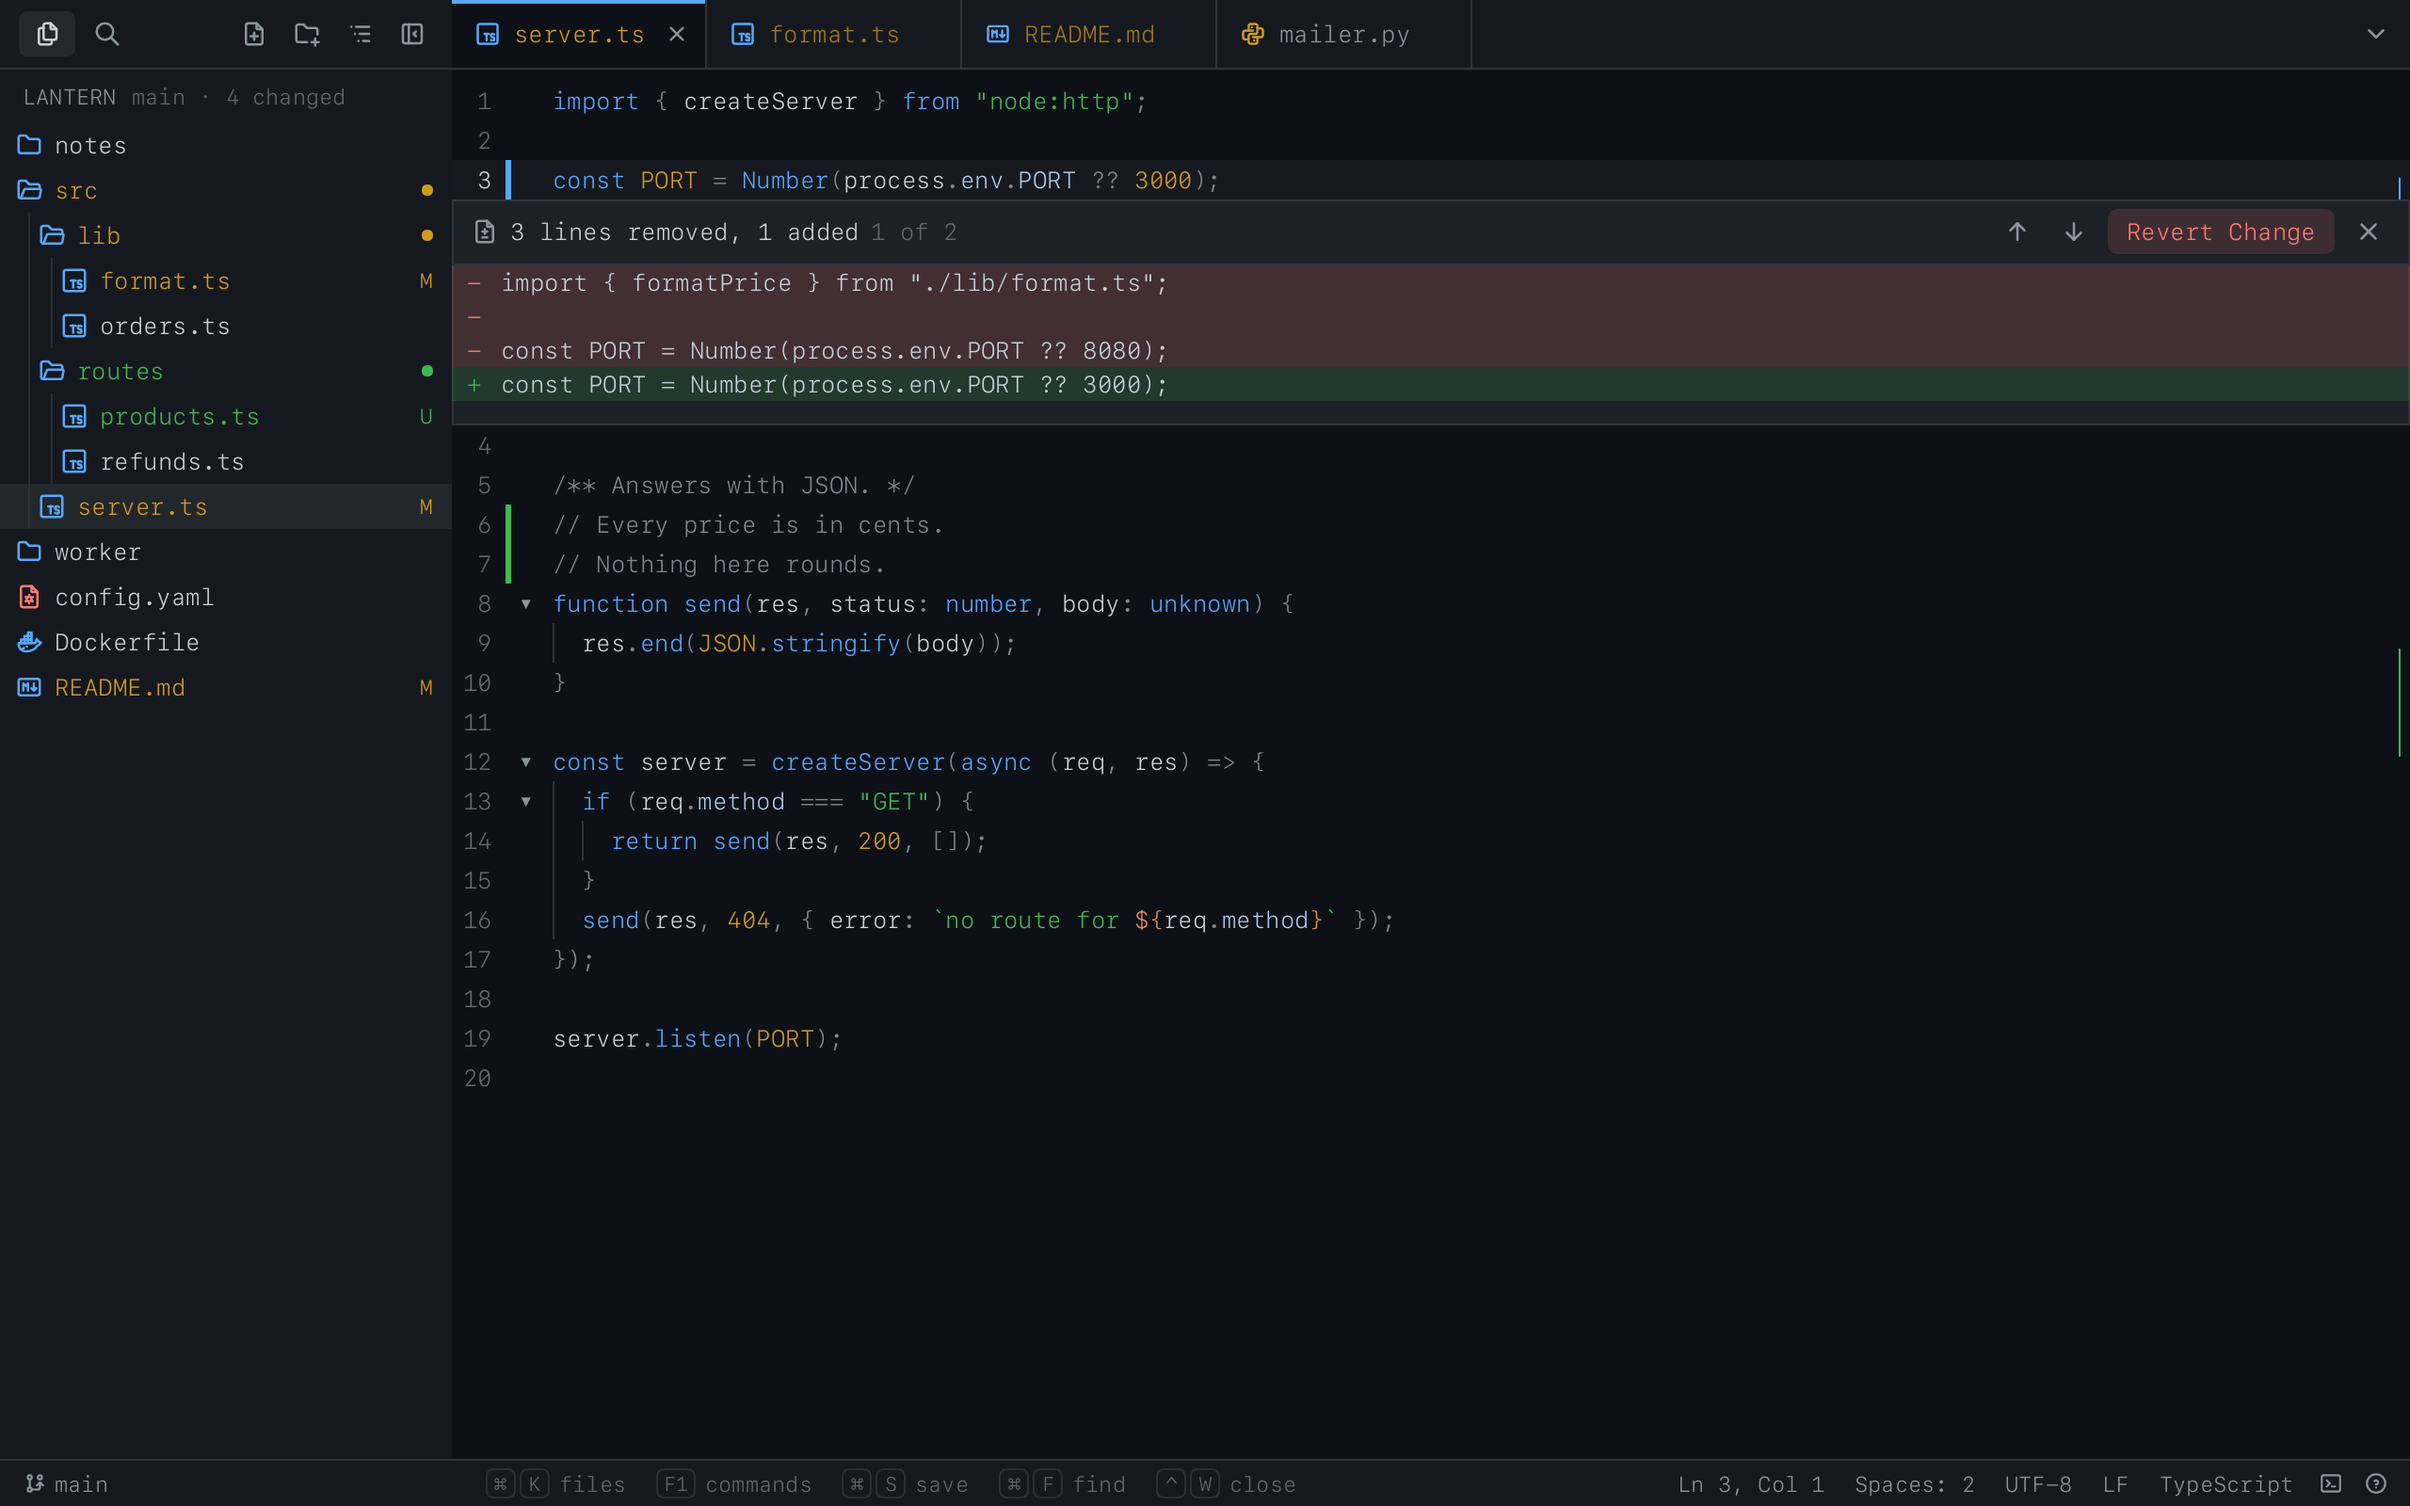
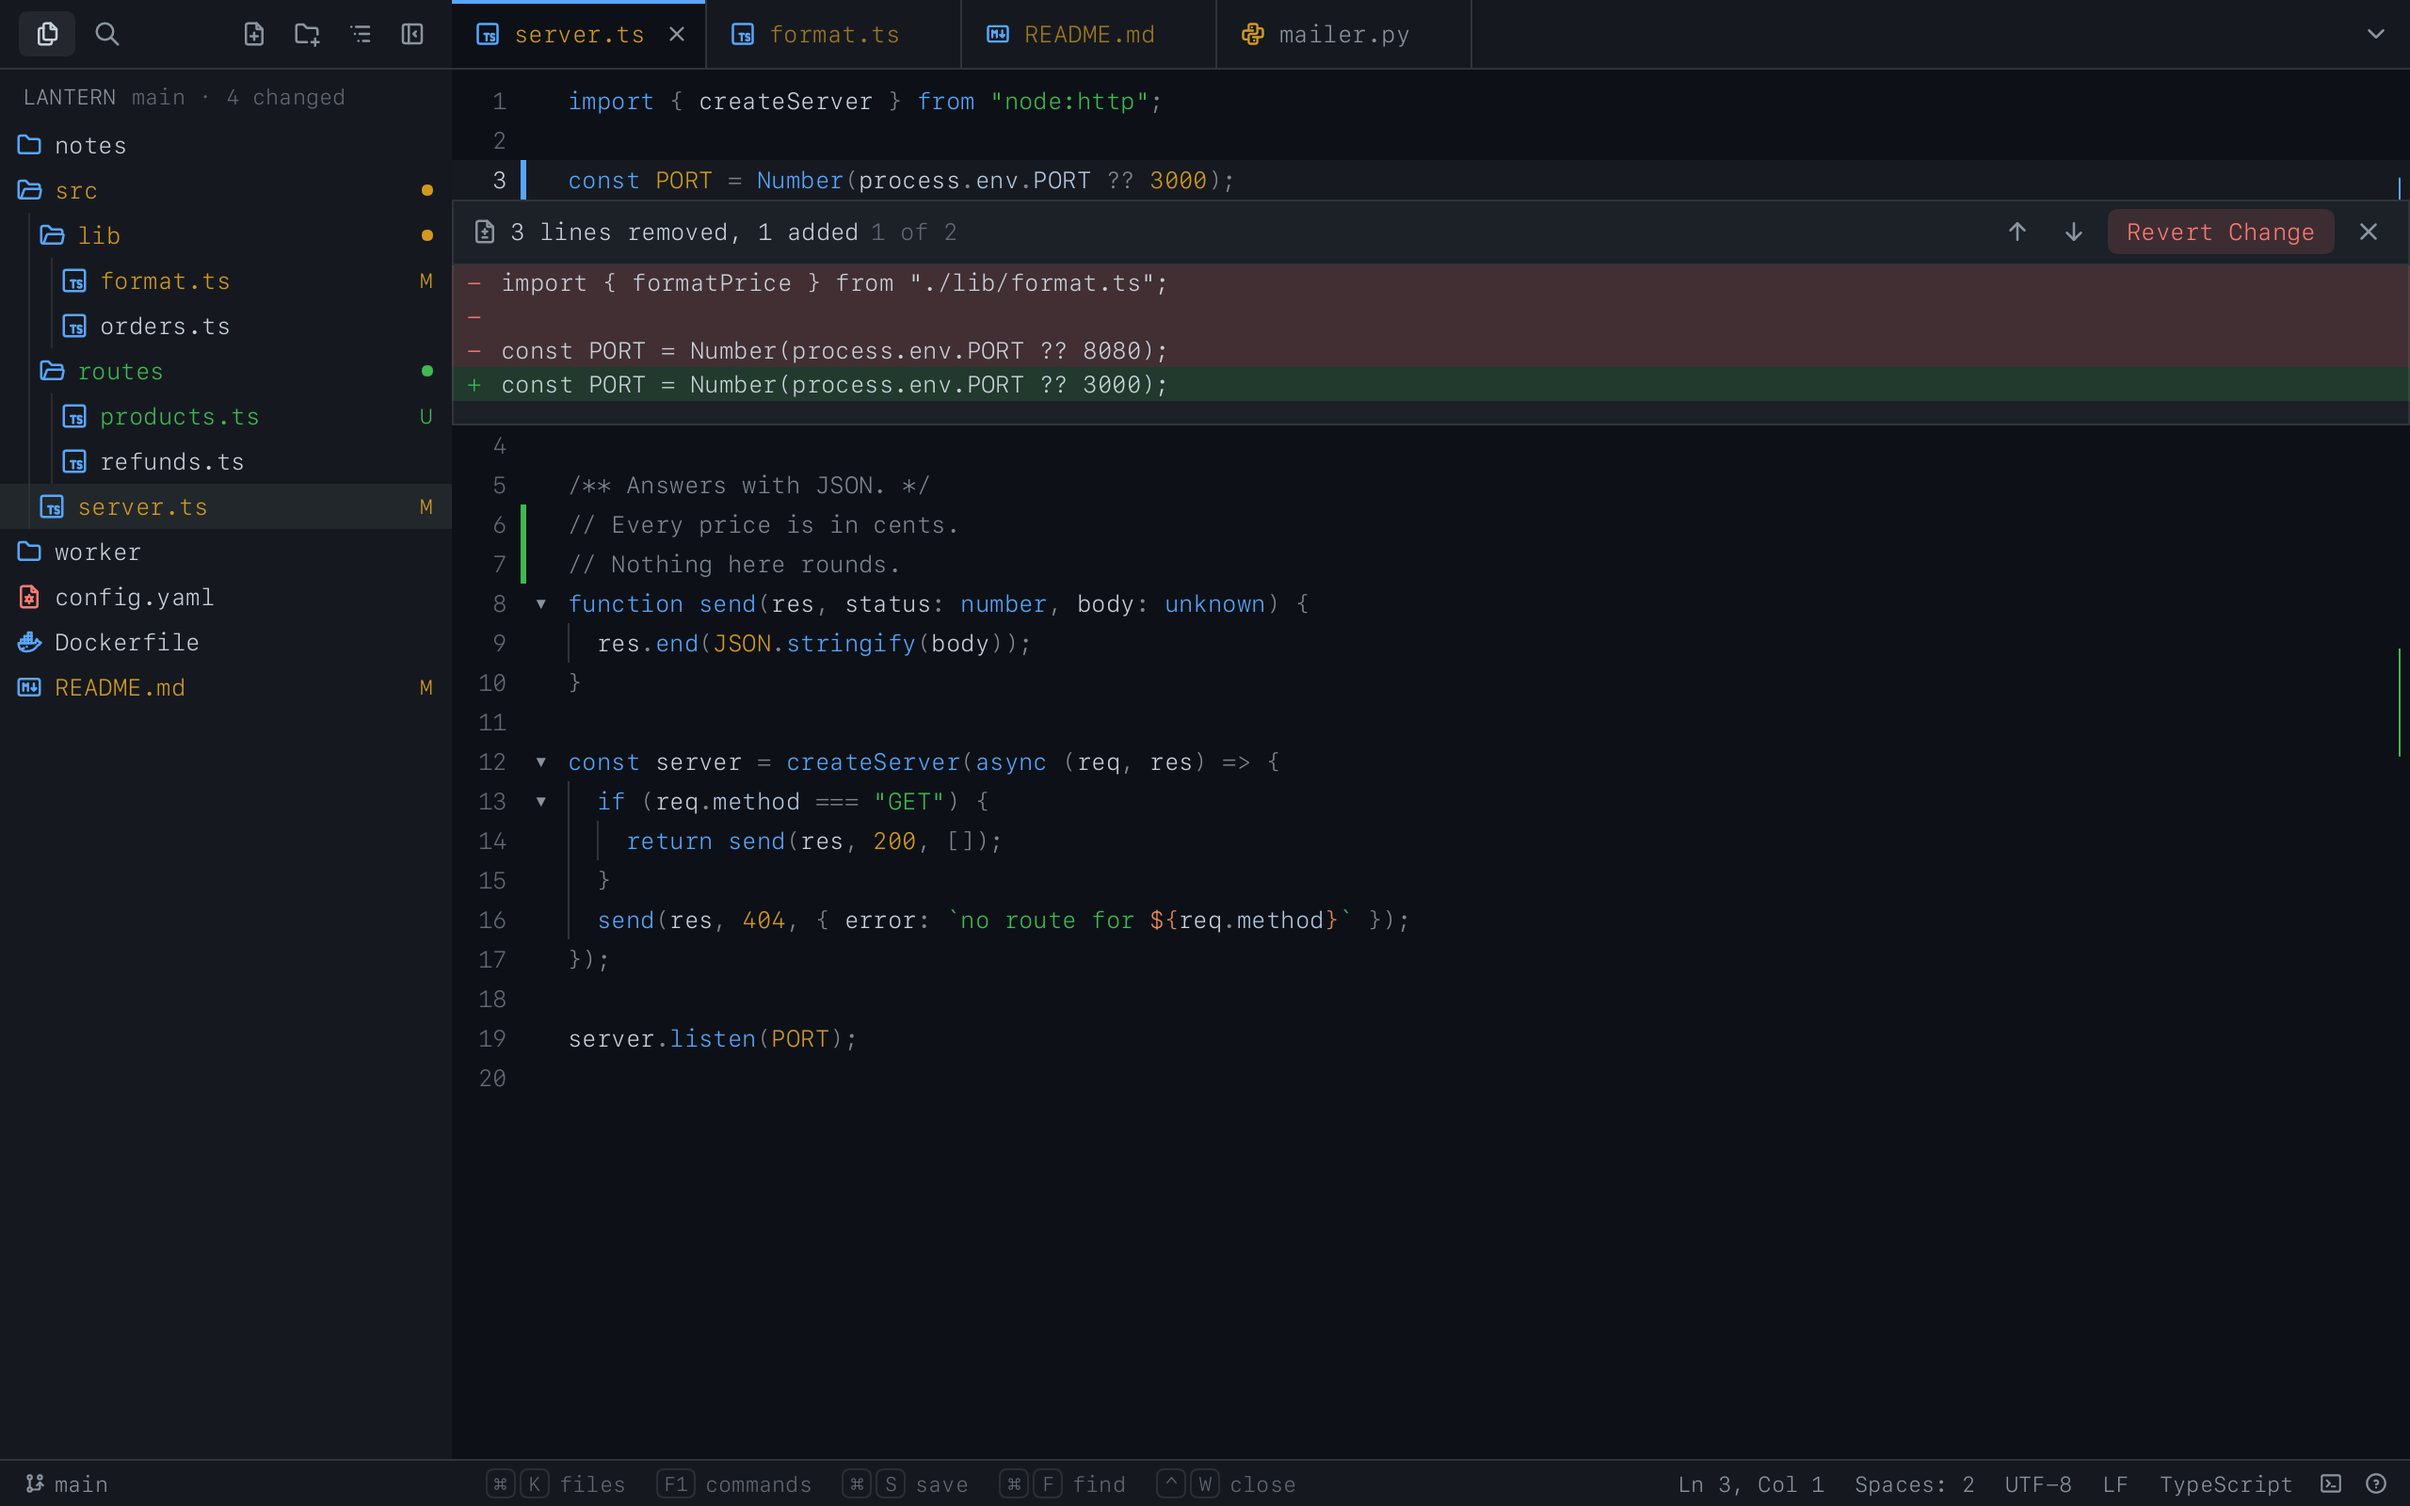
Keep more room before the editor's line numbers, away from the tree

diff --git a/CHANGELOG.md b/CHANGELOG.md
@@ -34,6 +34,7 @@ change what the previous one did.
   own look.
 - The tree shows whether a folder is open by its icon alone, with no arrow beside it, and the
   pointer stays a hand over its rows when one is clicked.
+- The numbers of the lines keep more room to their left, away from the tree.
 - The editor is a page of pencere's kit, in Lua, and the text is in the terminal's own editor, drawn
   in its font, in place of a web page with CodeMirror. It reads 33 languages in place of well over
   a hundred: JavaScript, TypeScript, JSX, TSX, Rust, Go, C, C++, C#, Java, Kotlin, Swift, PHP,
